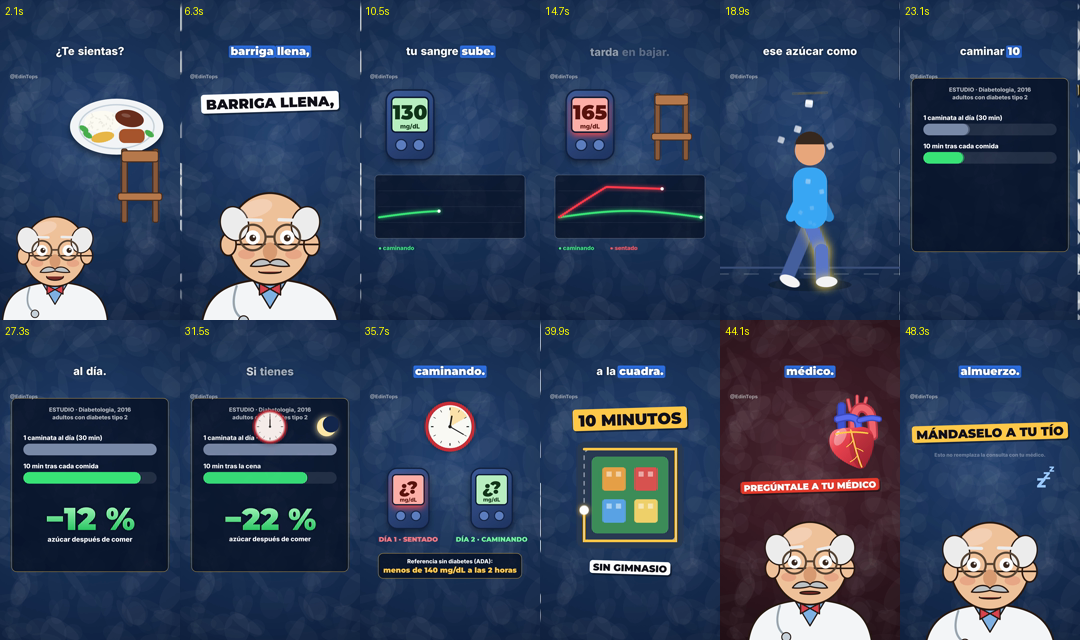
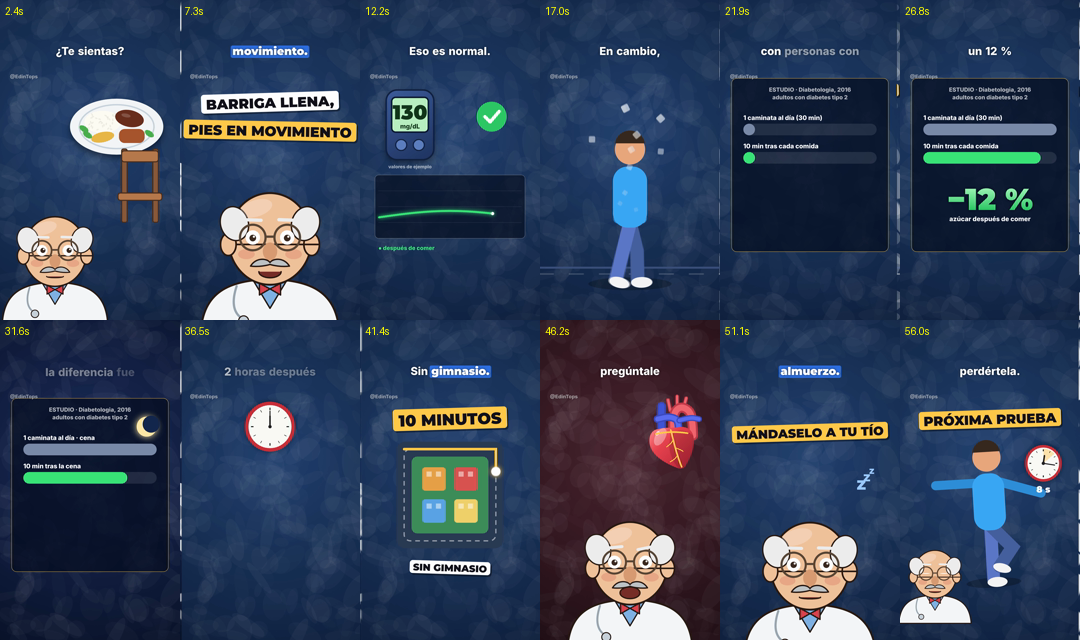
012 v3: highlight '30 min' bar, '2 HORAS' label, card wording = voice wording
Claude-Session: https://claude.ai/code/session_01FweKZ2sNp7pZXethpsF4p4

diff --git a/episodes/012-camina-despues-de-comer/film.js b/episodes/012-camina-despues-de-comer/film.js
@@ -119,13 +119,15 @@ M.film({
     if (k6 > 0) {
       glass(ctx, 70, 470, W - 140, 1040, k6);
       ctx.save(); ctx.globalAlpha = k6; ctx.textAlign = 'center'; ctx.font = font(34, 800, 'UI'); ctx.fillStyle = 'rgba(255,255,255,0.7)'; ctx.fillText('ESTUDIO · Diabetologia, 2016', W / 2, 550);
-      ctx.fillText('adultos con diabetes tipo 2', W / 2, 596); ctx.restore();
+      ctx.fillText('personas con diabetes tipo 2', W / 2, 596); ctx.restore();
       const dinner = t >= S[6];
       const kb = clamp((t - T.diez + 0.2) * 1.5);
       ctx.save(); ctx.globalAlpha = k6;
       K.bars(ctx, 140, 720, 800, [[dinner ? '1 caminata al día · cena' : '1 caminata al día (30 min)', 1, '#7C8AA8', ''],
         [dinner ? '10 min tras la cena' : '10 min tras cada comida', dinner ? 0.78 : 0.88, '#3BE37A', '']], kb);
       ctx.restore();
+      if (!dinner && t > T.sola - 0.1) { const kh = show(t, T.sola - 0.1, S[6]); ctx.save(); ctx.globalAlpha = k6 * kh; ctx.strokeStyle = GOLD; ctx.lineWidth = 8; ctx.shadowColor = GOLD; ctx.shadowBlur = 24;
+        rrect(ctx, 120, 650, 840, 140, 30); ctx.stroke(); ctx.shadowBlur = 0; ctx.fillStyle = GOLD; rrect(ctx, 760, 618, 190, 62, 20); ctx.fill(); ctx.fillStyle = '#14121C'; ctx.font = font(40, 900, 'Heavy'); ctx.textAlign = 'center'; ctx.fillText('30 MIN', 855, 663); ctx.restore(); }
       const big = dinner ? '−22 %' : '−12 %', kk = dinner ? show(t, T.veintidos - 0.1, S[7], SPRING.bouncy) : show(t, T.doce - 0.1, S[6], SPRING.bouncy);
       pop(ctx, kk, 540, 1260, () => { ctx.font = font(190, 900, 'Heavy'); ctx.textAlign = 'center'; const g = ctx.createLinearGradient(0, -170, 0, 0); g.addColorStop(0, '#B7FFC8'); g.addColorStop(1, '#2EC866');
         ctx.fillStyle = g; ctx.shadowColor = 'rgba(0,0,0,0.5)'; ctx.shadowBlur = 20; ctx.fillText(big, 0, 0); ctx.shadowBlur = 0; ctx.font = font(40, 800, 'UI'); ctx.fillStyle = '#fff'; ctx.fillText('azúcar después de comer', 0, 70); });
@@ -136,6 +138,7 @@ M.film({
     const k8 = show(t, S[7], S[8]);
     if (k8 > 0) {
       pop(ctx, show(t, S[7], S[8]), 540, 640, () => K.clock(ctx, 0, 0, 150, { sweep: clamp((t - T.horas + 0.2) / 1.2) * (2 / 12) }));
+      card(ctx, '2 HORAS', 540, 860, 70, show(t, T.horas, S[8], SPRING.bouncy), GOLD);
       pop(ctx, show(t, T.sentado2 - 0.1, S[8]), 290, 1080, () => { K.meter(ctx, 0, 0, 380, { value: '¿?', unit: 'mg/dL', state: 'warn', strip: false }); });
       pop(ctx, show(t, T.caminando - 0.1, S[8]), 790, 1080, () => { K.meter(ctx, 0, 0, 380, { value: '¿?', unit: 'mg/dL', state: 'ok', strip: false }); });
       ctx.save(); ctx.globalAlpha = k8; ctx.textAlign = 'center'; ctx.font = font(40, 900, 'Heavy');

diff --git a/episodes/012-camina-despues-de-comer/qa/report.md b/episodes/012-camina-despues-de-comer/qa/report.md
@@ -1,32 +1,38 @@
-# QA · 012-camina-despues-de-comer · 2026-11-25
+# QA · 012-camina-despues-de-comer · 2026-11-26
 
-Resultado: **9/9**
+Resultado: **11/12**
 
 - ✅ Duración 30-90 s
 - ✅ Luz media 35-150
 - ✅ Sin zonas quemadas (<8 % de píxeles a blanco en el peor fotograma)
 - ✅ Sin pantallas negras (<70 % de píxeles negros en el peor fotograma)
 - ✅ Cambio visual frecuente (≥ 3 por cada 10 s)
-- ✅ Ninguna imagen quieta > 3 s
+- ❌ Ninguna imagen quieta > 3 s
 - ✅ Volumen -14 LUFS ±1
 - ✅ Pico ≤ -1 dBTP
 - ✅ Voz entendible (≥ 0,85 de coincidencia con el guion)
+- ✅ Pronunciación: ninguna palabra del guion mal dicha o cortada
+- ✅ Final completo: la voz termina entre 0,8 y 2,5 s antes del final
+- ✅ Cierre audible: el último segundo no es silencio (remate musical)
 
 ```
 {
  "slug": "012-camina-despues-de-comer",
- "date": "2026-11-25",
- "duration": 50.4,
- "mean_light": 66.4,
+ "date": "2026-11-26",
+ "duration": 58.4,
+ "mean_light": 65.0,
  "worst_blown_pct": 2.9,
  "worst_crushed_pct": 0.4,
  "visual_changes_per_10s": 11.5,
- "longest_still_s": 3.0,
- "lufs": -14.1,
- "true_peak_dbfs": -1.2,
- "voice_match": 0.897,
- "passed": 9,
- "total": 9
+ "longest_still_s": 4.0,
+ "lufs": -14.0,
+ "true_peak_dbfs": -1.3,
+ "voice_match": 0.994,
+ "misheard_words": [],
+ "voice_end_s": 56.3,
+ "tail_mean_db": -29.7,
+ "passed": 11,
+ "total": 12
 }
 ```
 

diff --git a/aprendizaje/BITACORA_QA.md b/aprendizaje/BITACORA_QA.md
@@ -3,3 +3,4 @@
 | 2026-11-24 | E02-el-secreto-de-tu-corazon | 9/9 | 62.0 | 43.3 | 1.5 | 16.8 | 1.5 | -14.1 | 0.916 |
 | 2026-11-24 | E01-viaje-de-tu-sangre | 8/9 | 60.1 | 39.4 | 2.7 | 17.1 | 5.0 | -14.1 | 0.929 |
 | 2026-11-25 | 012-camina-despues-de-comer | 9/9 | 50.4 | 66.4 | 2.9 | 11.5 | 3.0 | -14.1 | 0.897 |
+| 2026-11-26 | 012-camina-despues-de-comer | 11/12 | 58.4 | 65.0 | 2.9 | 11.5 | 4.0 | -14.0 | 0.994 |
